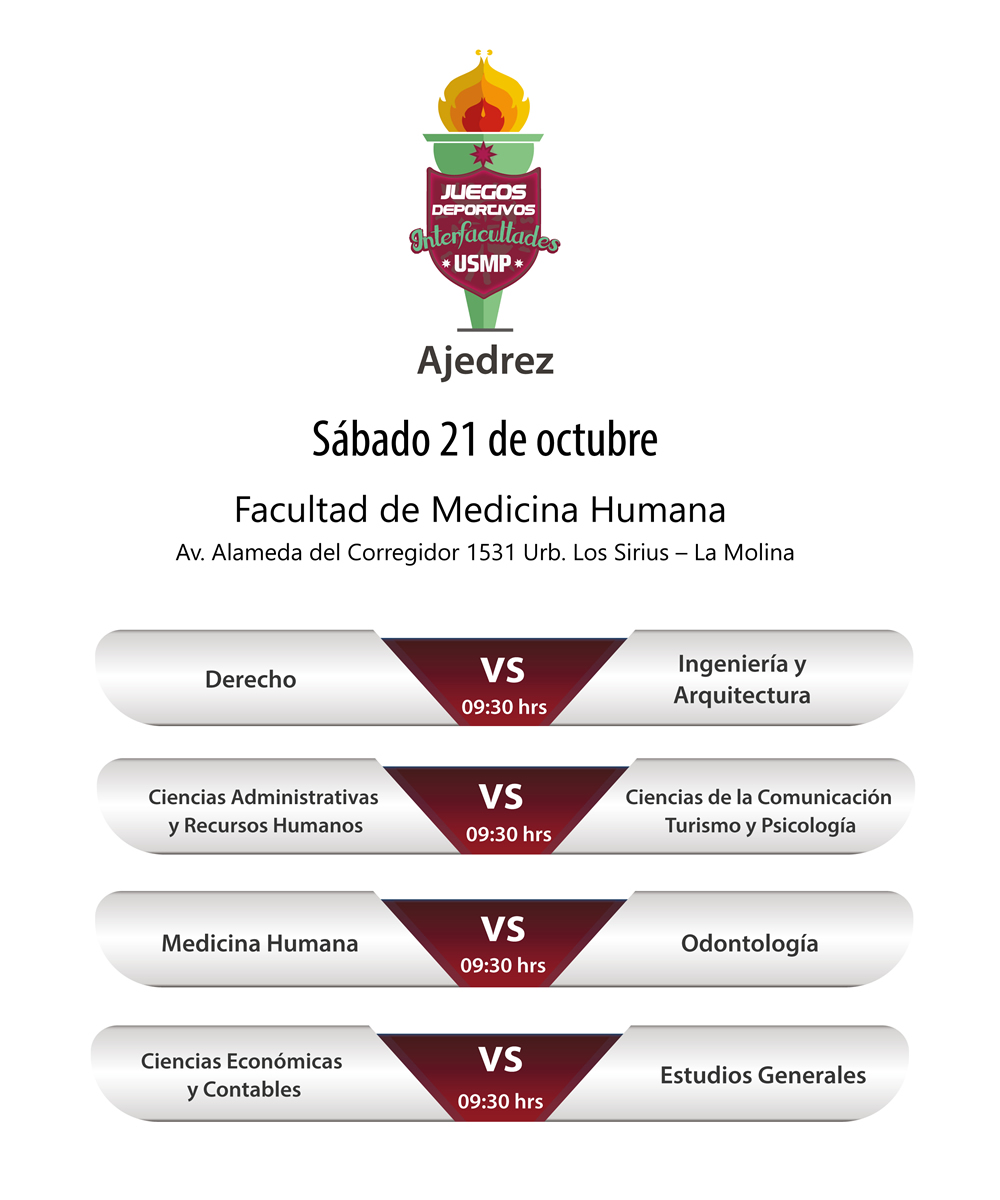
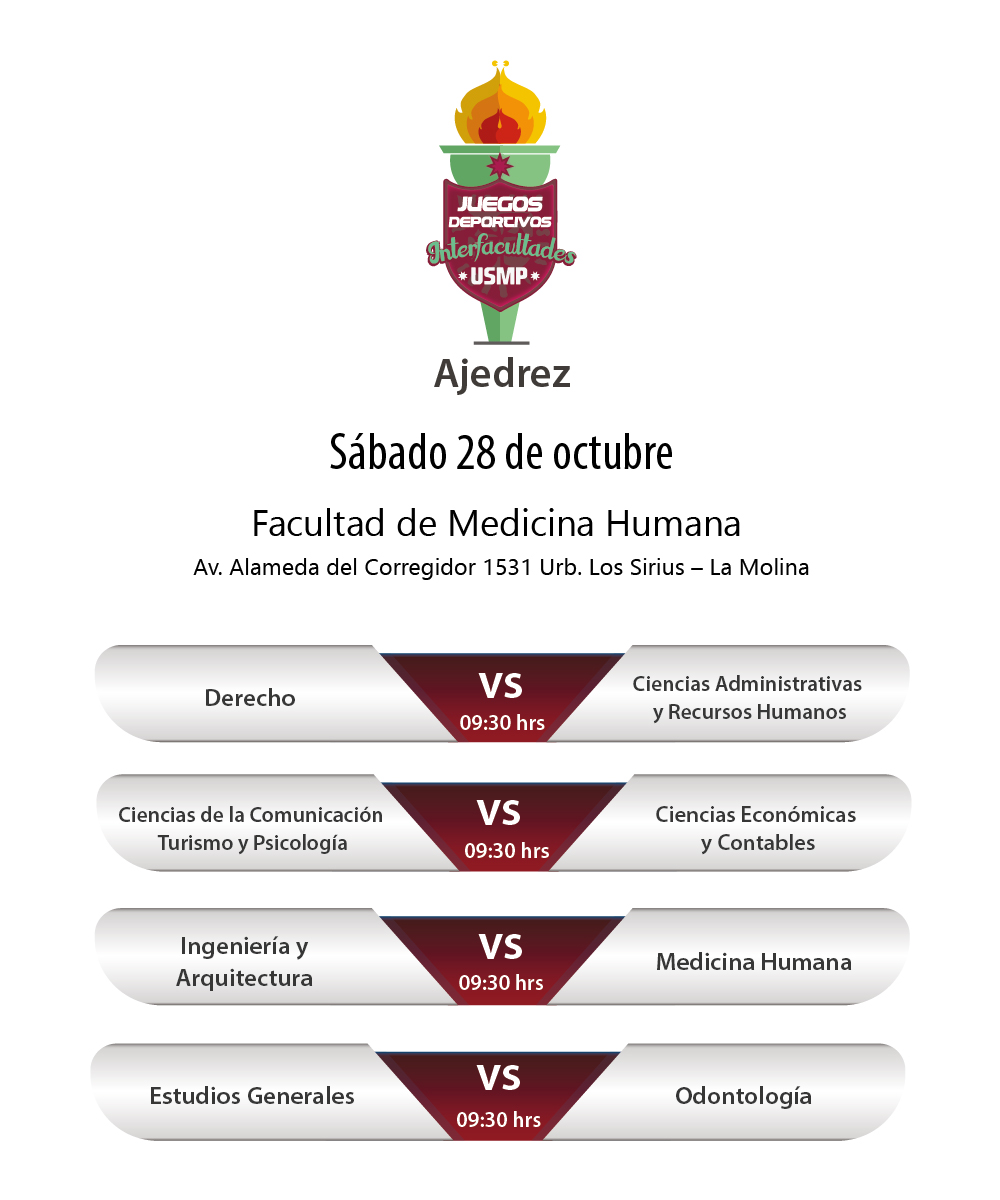
fixture ready

Changed region(s): [[0.093, 0.5242, 0.93, 0.9558], [0.186, 0.0308, 0.806, 0.4933]]

diff --git a/app/menu.html b/app/menu.html
@@ -1,0 +1,118 @@
+<!DOCTYPE html>
+<html lang="es"></html>
+<head>
+  <title>Deportes FIA</title>
+  <meta charset="UTF-8"/>
+  <meta name="viewport" content="width=device-width, user-scalable=no, initial-scale=1.0, maximum-scale=1.0, minimum-scale=1.0"/>
+  <link rel="Shortcut Icon" href="http://usmp.edu.pe/images/logo.ico"/>
+</head><!--	link(rel='stylesheet', type='text/css', href='css/demo.css')-->
+<link rel="stylesheet" type="text/css" href="css/calendar.css"/>
+<link rel="stylesheet" type="text/css" href="css/calendar_custom_2.css"/>
+<link rel="stylesheet" href="css/bootstrap.css"/>
+<link rel="stylesheet" href="css/slider.css"/>
+<link rel="stylesheet" href="css/style.css"/>
+<link rel="shortcut icon" href="http://www.usmp.edu.pe/images/logo.ico"/>
+<script src="js/jquery.js"></script>
+<script src="js/bootstrap.js"></script>
+<script src="js/myJS.js"></script>
+<script src="js/modernizr.custom.63321.js"></script>
+<style>
+.dropdown-submenu {
+    position: relative;
+}
+
+.dropdown-submenu>.dropdown-menu {
+    top: 0;
+    left: 100%;
+    margin-top: -6px;
+    margin-left: -1px;
+    -webkit-border-radius: 0 6px 6px 6px;
+    -moz-border-radius: 0 6px 6px;
+    border-radius: 0 6px 6px 6px;
+}
+
+.dropdown-submenu:hover>.dropdown-menu {
+    display: block;
+}
+
+.dropdown-submenu>a:after {
+    display: block;
+    content: " ";
+    float: right;
+    width: 0;
+    height: 0;
+    border-color: transparent;
+    border-style: solid;
+    border-width: 5px 0 5px 5px;
+    border-left-color: #ccc;
+    margin-top: 5px;
+    margin-right: -10px;
+}
+
+.dropdown-submenu:hover>a:after {
+    border-left-color: #fff;
+}
+
+.dropdown-submenu.pull-left {
+    float: none;
+}
+
+.dropdown-submenu.pull-left>.dropdown-menu {
+    left: -100%;
+    margin-left: 10px;
+    -webkit-border-radius: 6px 0 6px 6px;
+    -moz-border-radius: 6px 0 6px 6px;
+    border-radius: 6px 0 6px 6px;
+}
+</style>
+<body> 
+
+<div class="navbar navbar-default navbar-fixed-top" role="navigation">
+    <div class="container">
+        <div class="navbar-header">
+            <button type="button" class="navbar-toggle" data-toggle="collapse" data-target=".navbar-collapse">
+                <span class="sr-only">Toggle navigation</span>
+                <span class="icon-bar"></span>
+                <span class="icon-bar"></span>
+                <span class="icon-bar"></span>
+            </button>
+            <a class="navbar-brand" href="#">NavBar</a>
+        </div>
+        <div class="collapse navbar-collapse">
+            <ul class="nav navbar-nav navbar-right">
+                <li><a href="https://github.com/fontenele/bootstrap-navbar-dropdowns" target="_blank">GitHub Project</a></li>
+            </ul>
+            <ul class="nav navbar-nav">
+                <li class="active"><a href="#">Home</a></li>
+               
+         
+                <li>
+                    <a href="#" class="dropdown-toggle" data-toggle="dropdown">Menu 2 <b class="caret"></b></a>
+                    <ul class="dropdown-menu">
+                        <li><a href="#">Action</a></li>
+                        <li><a href="#">Another action</a></li>
+                       
+                        <li class="dropdown-submenu">
+                            <a href="#" class="dropdown-toggle" data-toggle="dropdown">Dropdown</a>
+                            <ul class="dropdown-menu">
+                                <li><a href="#">Action</a></li>
+                                <li><a href="#">Another action</a></li>
+                               
+
+                            </ul>
+                        </li>
+                    </ul>
+                </li>
+            </ul>
+        </div><!--/.nav-collapse -->
+    </div>
+</div>
+
+
+</body>
+
+
+  <script type="text/javascript" src="js/jquery.calendario.js"></script>
+  <script type="text/javascript" src="js/data.js"></script>
+  <script type="text/javascript" src="js/functionCalendar.js"></script>
+</div>

diff --git a/app/css/style.css b/app/css/style.css
@@ -421,6 +421,48 @@ section.pics-c {
     margin-bottom: 0;
     background-color: #821E37; } }
 
+/* SUB MENU -VICTOR  */
+.dropdown-submenu {
+  position: relative; }
+
+.dropdown-submenu > .dropdown-menu {
+  top: 0;
+  left: 100%;
+  margin-top: -13px;
+  margin-left: -1px;
+  background-color: #821E37 !important;
+  opacity: 1 !important; }
+
+.dropdown-submenu:hover > .dropdown-menu {
+  display: block;
+  color: green !important; }
+
+.dropdown-submenu > a:after {
+  display: block;
+  content: " ";
+  float: right;
+  width: 0;
+  height: 0;
+  border-color: transparent;
+  border-style: solid;
+  border-width: 5px 0 5px 5px;
+  border-left-color: #ccc;
+  margin-top: 5px;
+  margin-right: -10px; }
+
+.dropdown-submenu:hover {
+  color: black;
+  background-color: transparent; }
+
+.dropdown-submenu.pull-left {
+  float: none; }
+
+.fixA {
+  background-color: #821E37; }
+
+.fixA:hover {
+  background-color: transparent; }
+
 @media only screen and (min-width: 1200px) {
   body {
     background-color: white; }

diff --git a/app/interfacultades.html b/app/interfacultades.html
@@ -40,7 +40,12 @@
             <li style="background-color:#76142E;"><a href="./interfacultades.html">INTERFACULTADES</a></li>
             <li class="dropdown"><a class="dropdown-toggle" href="#" data-toggle="dropdown" role="button" aria-haspopup="true" aria-expanded="false">LIGAS <span class="caret"></span></a>
               <ul class="dropdown-menu">
-                <li><a href="#">Profesionales</a></li>
+                <li class="dropdown-submenu"><a class="dropdown-toggle fixA" href="#" data-toggle="dropdown">Profesionales</a>
+                  <ul class="dropdown-menu">
+                    <li><a href="http://www.clubdeportivo.usmp.edu.pe/" target="_blank">Club de Fútbol</a></li>
+                    <li><a href="https://www.facebook.com/USMPVoleibol/" target="_blank">Club de Vóley</a></li>
+                  </ul>
+                </li>
                 <li><a href="#">Universitarios</a></li>
               </ul>
             </li>

diff --git a/app/index.html b/app/index.html
@@ -37,7 +37,12 @@
             <li><a href="./interfacultades.html">INTERFACULTADES</a></li>
             <li class="dropdown"><a class="dropdown-toggle" href="#" data-toggle="dropdown" role="button" aria-haspopup="true" aria-expanded="false">LIGAS <span class="caret"></span></a>
               <ul class="dropdown-menu">
-                <li><a href="#">Profesionales</a></li>
+                <li class="dropdown-submenu"><a class="dropdown-toggle fixA" href="#" data-toggle="dropdown">Profesionales</a>
+                  <ul class="dropdown-menu">
+                    <li><a href="http://www.clubdeportivo.usmp.edu.pe/" target="_blank">Club de Fútbol</a></li>
+                    <li><a href="https://www.facebook.com/USMPVoleibol/" target="_blank">Club de Vóley</a></li>
+                  </ul>
+                </li>
                 <li><a href="#">Universitarios</a></li>
               </ul>
             </li>

diff --git a/app/nosotros.html b/app/nosotros.html
@@ -41,7 +41,12 @@
             <li><a href="./interfacultades.html">INTERFACULTADES</a></li>
             <li class="dropdown"><a class="dropdown-toggle" href="#" data-toggle="dropdown" role="button" aria-haspopup="true" aria-expanded="false">LIGAS <span class="caret"></span></a>
               <ul class="dropdown-menu">
-                <li><a href="#">Profesionales</a></li>
+                <li class="dropdown-submenu"><a class="dropdown-toggle fixA" href="#" data-toggle="dropdown">Profesionales</a>
+                  <ul class="dropdown-menu">
+                    <li><a href="http://www.clubdeportivo.usmp.edu.pe/" target="_blank">Club de Fútbol</a></li>
+                    <li><a href="https://www.facebook.com/USMPVoleibol/" target="_blank">Club de Vóley</a></li>
+                  </ul>
+                </li>
                 <li><a href="#">Universitarios</a></li>
               </ul>
             </li>

diff --git a/scss/_menu.scss b/scss/_menu.scss
@@ -83,6 +83,51 @@ background-color: $color-bk-menu;
 }
 
 
+/* SUB MENU -VICTOR  */ 
+.dropdown-submenu {
+	position: relative;
+	}
+	.dropdown-submenu>.dropdown-menu {
+	top: 0;
+	left: 100%;
+	margin-top: -13px;
+	margin-left: -1px;
+	background-color: #821E37 !important;
+	opacity:1 !important;
+	}
+	.dropdown-submenu:hover>.dropdown-menu {
+	display: block;
+	color: green !important;
+	}
+
+	.dropdown-submenu>a:after {
+	display: block;
+	content: " ";
+	float: right;
+	width: 0;
+	height: 0;
+	border-color: transparent;
+	border-style: solid;
+	border-width: 5px 0 5px 5px;
+	border-left-color: #ccc;
+	margin-top: 5px;
+	margin-right: -10px;
+	}
+	.dropdown-submenu:hover{
+	color:black;
+	background-color:transparent ;
+
+	}
+
+	.dropdown-submenu.pull-left {
+	float: none;
+	}
+	.fixA{
+		background-color: #821E37;
+	}
+	.fixA:hover{
+		background-color:transparent;
+	}
 
 
 
